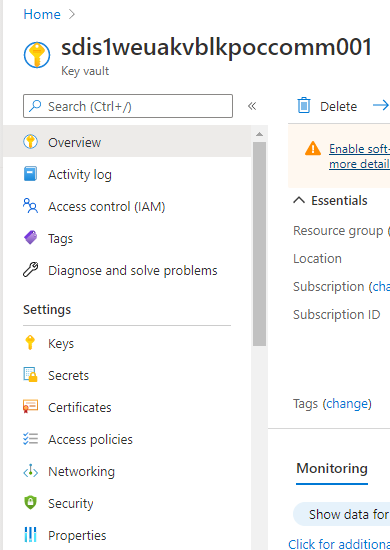
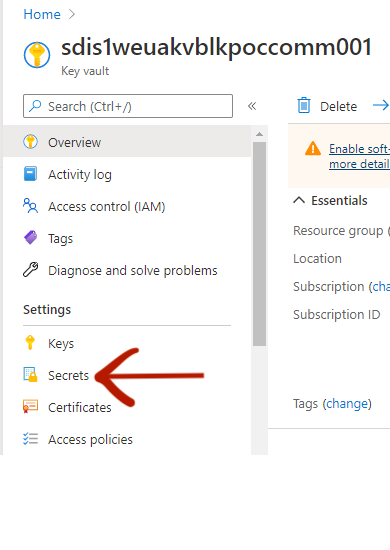
README v1.0

diff --git a/README.md b/README.md
@@ -68,12 +68,27 @@ You will get a view like this.
 
 ![Secrets_password](./images_readme/Cap2.PNG)
 
-Just click on the button "Show secret" and copy that value. This value is the password that you need to configure on the config.py.
+Just click on the button "Show secret" and copy the information in "Secret value". This value is the password that you need to configure on the config.py.
 
 ```
 PASSWORD = <secret-value>
 ```
 
-### Create the key inside AKV to be compatible with Ethereum (TODO)
+### Create the key inside AKV to be compatible with Ethereum
+To create the key we will use on the demo you just need to enter the "Keys" tab inside the AKV. And there click on the Generate/Import button that is on top
 
-### Find the key version and set it on config file (TODO)
+Once on the creation of the key make sure to select EC to make it an Elliptic Curve key and set the Elliptic Curve Name to "P-256K" as you can see on the image because that is the name Azure has given to the curve Secp256k1 that is the one used on Ethereum.
+
+![generate](./images_readme/Cap4.PNG)
+
+Enter again on Keys tab from your AKV and click on the key you have just created to see its info.
+
+![key_version](./images_readme/Cap5.PNG)
+
+There you have the version id that you need to paste on the config file.
+
+```
+KEY_VERSION = <version-id>
+```
+
+
